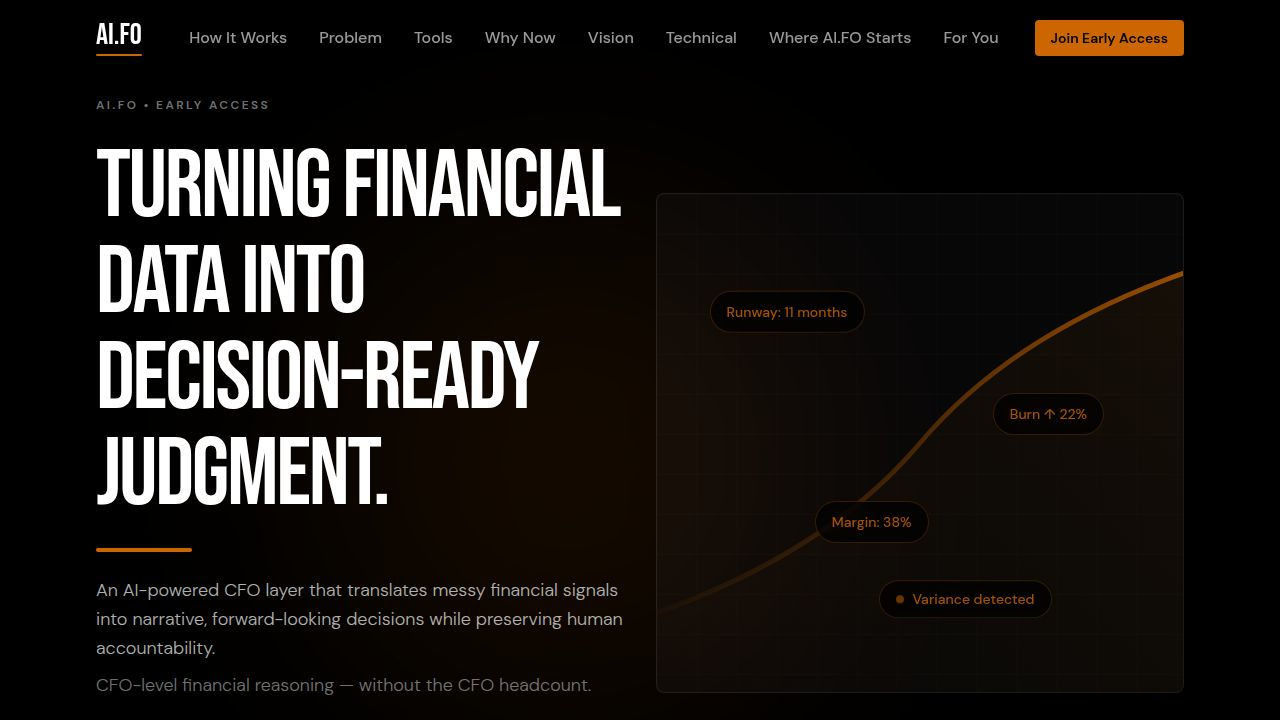
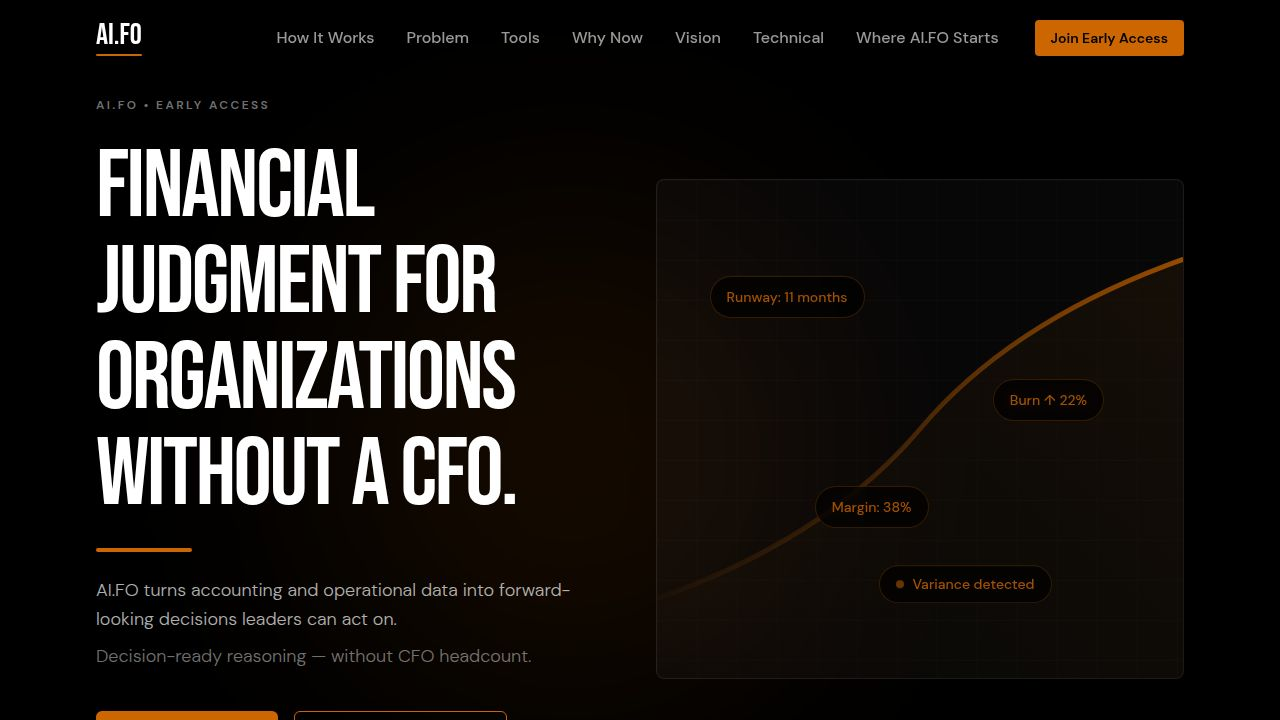
Update website copy, navigation, and SEO meta tags
Refactors SEO meta tags, updates hero and early access form copy, removes unused components, and fixes a network error in the early access form.

Replit-Commit-Author: Agent
Replit-Commit-Session-Id: 9a292c17-90a0-44ad-b731-1780f6601eb4
Replit-Commit-Checkpoint-Type: full_checkpoint
Replit-Commit-Event-Id: 9716580e-d281-4c8c-bca7-dfa4a52ecfcc
Replit-Commit-Screenshot-Url: https://storage.googleapis.com/screenshot-production-us-central1/9badb0f3-62ef-4d1f-a480-6d670f9ae1a0/9a292c17-90a0-44ad-b731-1780f6601eb4/5PKVsyS
Replit-Helium-Checkpoint-Created: true

diff --git a/client/index.html b/client/index.html
@@ -4,15 +4,19 @@
     <meta charset="UTF-8" />
     <meta name="viewport" content="width=device-width, initial-scale=1.0, maximum-scale=1" />
 
-    <meta property="og:title" content="AI.FO - Turning financial data into decision-ready judgment" />
-    <meta property="og:description" content="An AI-powered CFO layer that translates messy financial signals into narrative, forward-looking decisions." />
+    <title>AI.FO — Financial judgment without CFO headcount</title>
+    <meta name="description" content="AI.FO turns accounting and operational data into decision-ready financial judgment for organizations under $50M." />
+
+    <meta property="og:title" content="AI.FO — Financial judgment without CFO headcount" />
+    <meta property="og:description" content="AI.FO turns accounting and operational data into decision-ready financial judgment for organizations under $50M." />
     <meta property="og:type" content="website" />
-    <meta property="og:image" content="https://replit.com/public/images/opengraph.png" />
+    <meta property="og:url" content="https://getaifo.com" />
+    <meta property="og:image" content="/opengraph.jpg" />
+
     <meta name="twitter:card" content="summary_large_image" />
-    <meta name="twitter:site" content="@replit" />
-    <meta name="twitter:title" content="AI.FO - Turning financial data into decision-ready judgment" />
-    <meta name="twitter:description" content="An AI-powered CFO layer that translates messy financial signals into narrative, forward-looking decisions." />
-    <meta name="twitter:image" content="https://replit.com/public/images/opengraph.png" />
+    <meta name="twitter:title" content="AI.FO — Financial judgment without CFO headcount" />
+    <meta name="twitter:description" content="AI.FO turns accounting and operational data into decision-ready financial judgment for organizations under $50M." />
+    <meta name="twitter:image" content="/opengraph.jpg" />
 
     <link rel="icon" type="image/png" href="/favicon.png" />
     <link rel="preconnect" href="https://fonts.googleapis.com">

diff --git a/client/src/components/EarlyAccess.tsx b/client/src/components/EarlyAccess.tsx
@@ -64,7 +64,7 @@ export default function EarlyAccess() {
         setErrorMessage(json.error || null);
       }
     } catch {
-      setErrorMessage(null);
+      setErrorMessage("connection-error");
     } finally {
       setIsSubmitting(false);
     }
@@ -169,7 +169,7 @@ export default function EarlyAccess() {
                       name="companySize"
                       render={({ field }) => (
                         <FormItem>
-                          <FormLabel className="text-white/80 font-medium">Company Size (Optional)</FormLabel>
+                          <FormLabel className="text-white/80 font-medium">Annual Revenue (Optional)</FormLabel>
                           <Select onValueChange={field.onChange} defaultValue={field.value}>
                             <FormControl>
                               <SelectTrigger className="bg-black border-white/20 focus:ring-accent text-white h-12">
@@ -191,8 +191,11 @@ export default function EarlyAccess() {
 
                     {errorMessage && (
                       <p className="text-sm text-red-400 font-medium">
-                        Something went wrong. Please try again or email{" "}
-                        <a href="mailto:questions@getaifo.com" className="underline underline-offset-2 hover:text-white transition-colors">questions@getaifo.com</a>.
+                        {errorMessage === "connection-error"
+                          ? <>Connection error. Please check your network and try again, or email{" "}
+                              <a href="mailto:questions@getaifo.com" className="underline underline-offset-2 hover:text-white transition-colors">questions@getaifo.com</a>.</>
+                          : <>Something went wrong. Please try again or email{" "}
+                              <a href="mailto:questions@getaifo.com" className="underline underline-offset-2 hover:text-white transition-colors">questions@getaifo.com</a>.</>}
                       </p>
                     )}
 

diff --git a/client/src/components/Hero.tsx b/client/src/components/Hero.tsx
@@ -18,15 +18,15 @@ export default function Hero() {
           </p>
           <div className="mb-6">
             <h1 className="font-display text-5xl sm:text-6xl md:text-7xl lg:text-8xl tracking-tight text-white mb-2" data-testid="hero-heading">
-              Turning financial data into decision-ready judgment.
+              Financial judgment for organizations without a CFO.
             </h1>
             <div className="w-24 h-1 bg-accent rounded-full mt-6"></div>
           </div>
           <p className="font-body text-base md:text-lg leading-relaxed text-white/70 mb-2 max-w-xl" data-testid="hero-subhead">
-            An AI-powered CFO layer that translates messy financial signals into narrative, forward-looking decisions while preserving human accountability.
+            AI.FO turns accounting and operational data into forward-looking decisions leaders can act on.
           </p>
           <p className="font-body text-base md:text-lg leading-relaxed text-white/45 mb-10 max-w-xl">
-            CFO-level financial reasoning — without the CFO headcount.
+            Decision-ready reasoning — without CFO headcount.
           </p>
           <div className="flex flex-col sm:flex-row gap-4">
             <a href="#early-access" className="btn-primary" data-testid="hero-btn-primary">
@@ -40,8 +40,8 @@ export default function Hero() {
 
         {/* Abstract Visual Panel */}
         <motion.div
-          initial={{ opacity: 0, opacity: 0 }}
-          animate={{ opacity: 1, opacity: 1 }}
+          initial={{ opacity: 0 }}
+          animate={{ opacity: 1 }}
           transition={{ duration: 1, delay: 0.2 }}
           className="hidden lg:block relative h-[500px] w-full"
         >

diff --git a/client/src/pages/home.tsx b/client/src/pages/home.tsx
@@ -8,7 +8,6 @@ import WhyNow from "@/components/WhyNow";
 import ProductVision from "@/components/ProductVision";
 import TechnicalChallenge from "@/components/TechnicalChallenge";
 import Wedge from "@/components/Wedge";
-import WhoThisIsFor from "@/components/WhoThisIsFor";
 import EarlyAccess from "@/components/EarlyAccess";
 import Footer from "@/components/Footer";
 
@@ -26,7 +25,6 @@ export default function Home() {
         <ProductVision />
         <TechnicalChallenge />
         <Wedge />
-        <WhoThisIsFor />
         <EarlyAccess />
       </main>
       <Footer />

diff --git a/client/src/components/Nav.tsx b/client/src/components/Nav.tsx
@@ -30,7 +30,6 @@ export default function Nav() {
     { name: "Vision", href: "#vision" },
     { name: "Technical", href: "#technical" },
     { name: "Where AI.FO Starts", href: "#wedge" },
-    { name: "For You", href: "#for-you" },
   ];
 
   return (
